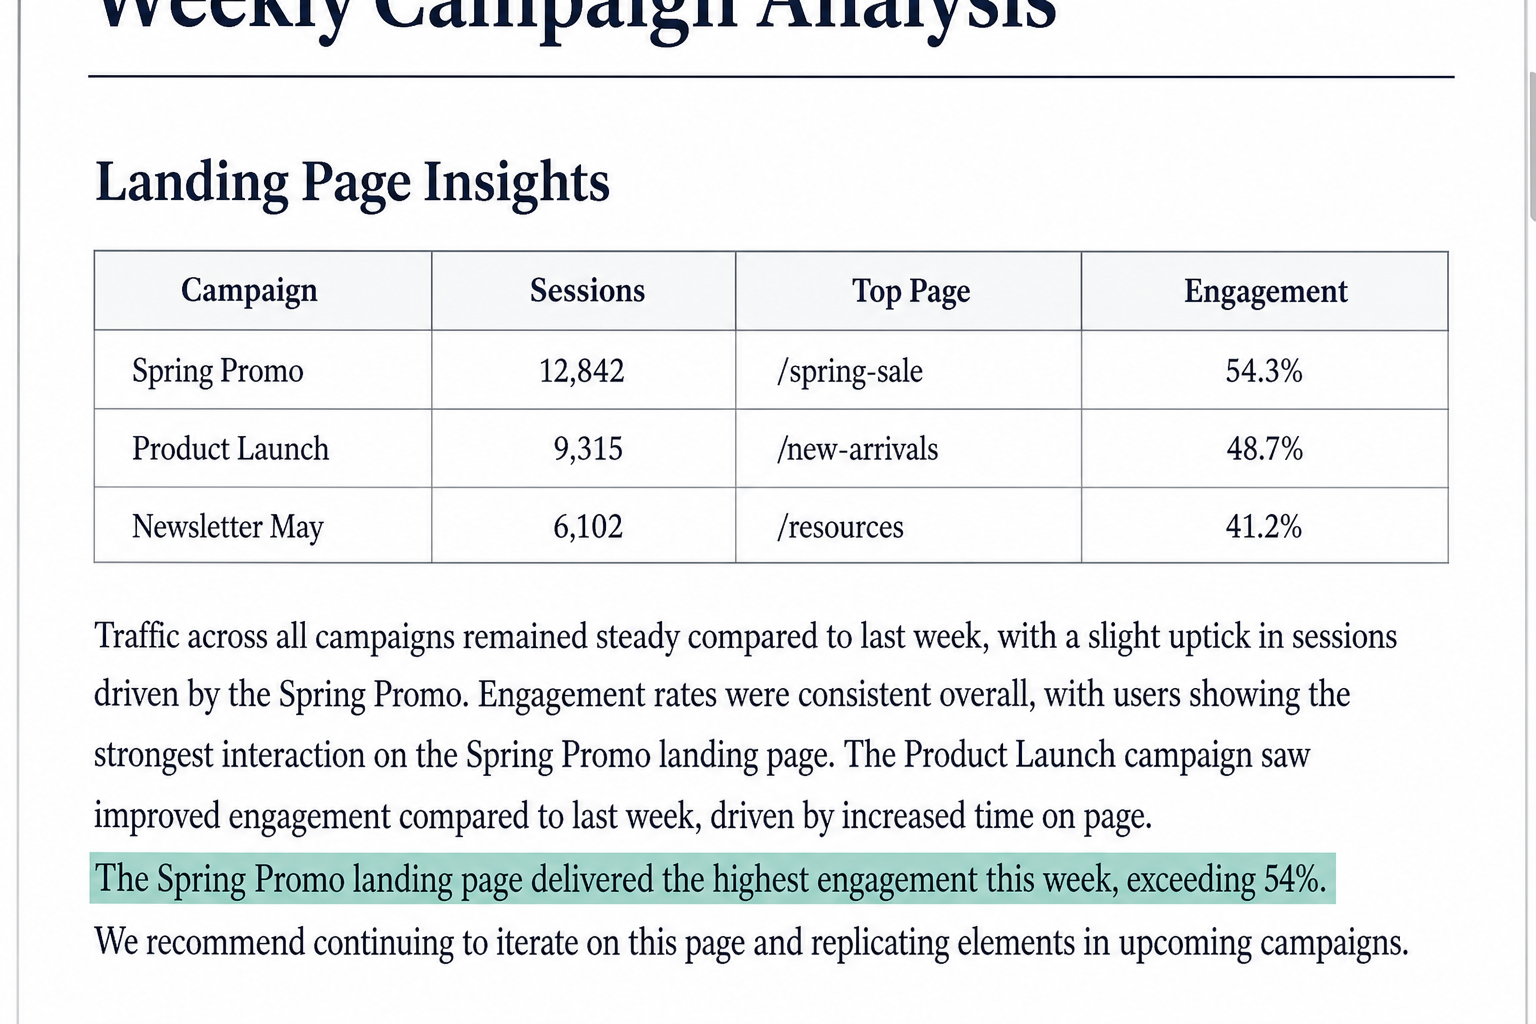
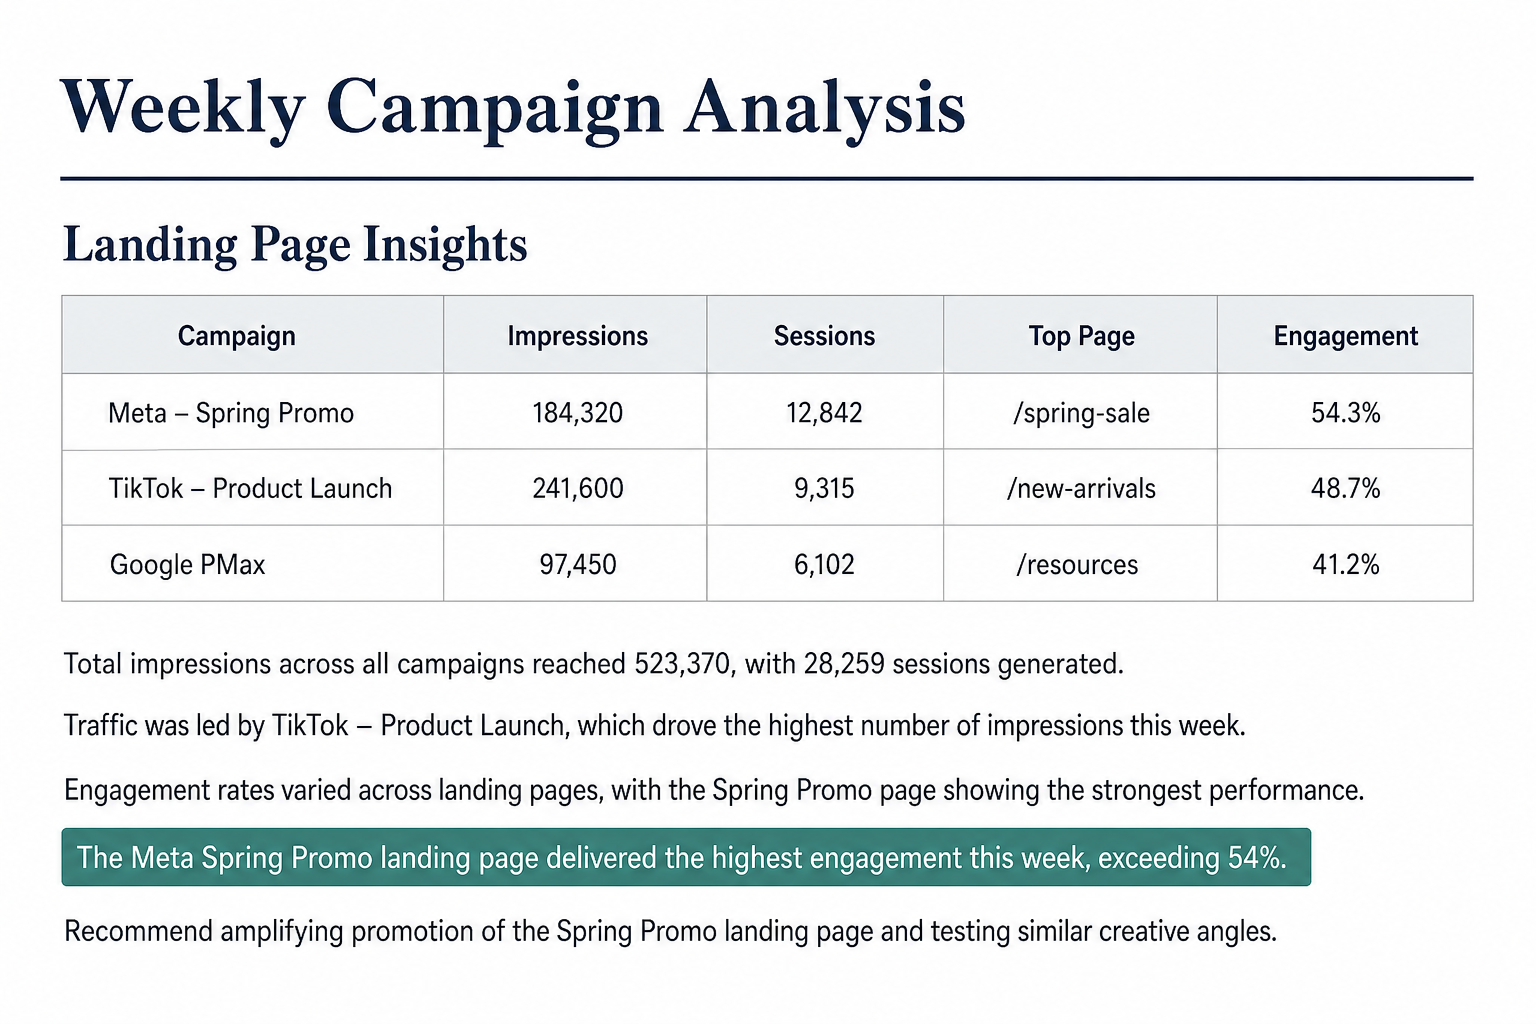
Fix cropped title and add channel-specific campaigns to Copilot cover.
Campaign names now reflect actual channels (Meta, TikTok, Google PMax)
and the table adds an Impressions column alongside Sessions, Top Page,
and Engagement.

diff --git a/src/content/case-studies.ts b/src/content/case-studies.ts
@@ -35,7 +35,7 @@ export const caseStudies: CaseStudy[] = [
     featured: true,
     coverImage: "/case-studies/ai-marketing-reporting-copilot.png",
     coverImageAlt:
-      "Cropped excerpt of a weekly campaign report with a landing page insights table and a highlighted key finding in the analysis text",
+      "Weekly campaign analysis report showing a landing page insights table broken out by channel (Meta, TikTok, Google PMax) with impressions, sessions, top page, and engagement",
   },
   {
     slug: "marketing-forecasting-framework",
